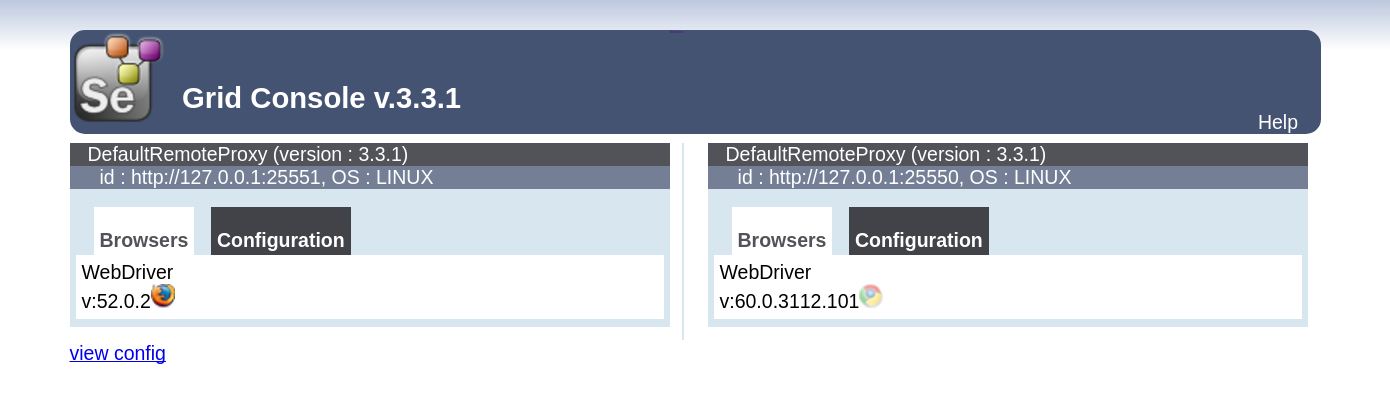
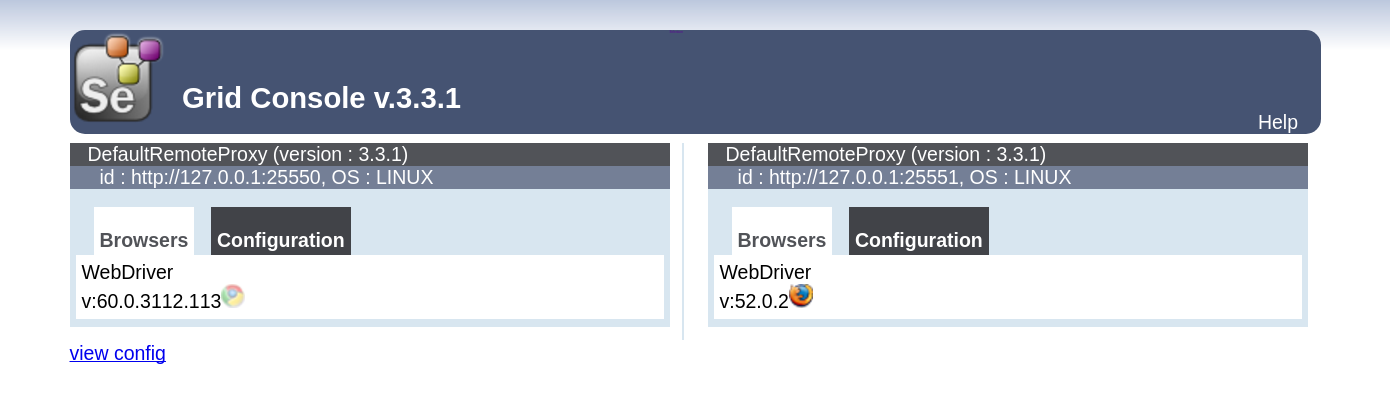
3.3.1-p23: Update image id, digest & png [ci skip]

diff --git a/CHANGELOG.md b/CHANGELOG.md
@@ -7,28 +7,28 @@ Note image ids also change after scm-source.json has being updated which trigger
 ###### To get container versions
     docker exec grid versions
 
-## TBD_DOCKER_TAG
- + **Changes:** https://github.com/elgalu/docker-selenium/compare/TBD_PREV_COMM...master (TBD_DATE)
+## 3.3.1-p23
+ + **Changes:** https://github.com/elgalu/docker-selenium/compare/TBD_PREV_COMM...master (2017-08-28)
     + Upgrade Chrome patch to 60.0.3112.112
  + **Image tag details:**
-    + Selenium version: TBD_SELENIUM_3_VERSION (TBD_SELENIUM_3_REVISION)
-    + Chrome stable:  TBD_CHROME_STABLE
-    + Firefox stable: TBD_FIREFOX_FOR_SEL3
-    + Geckodriver: TBD_GECKO_DRIVER
-    + Chromedriver: TBD_CHROME_DRIVER (TBD_CHROMEDRIVER_COMMIT)
-    + Java: TBD_JAVA_VENDOR Java TBD_JAVA_BUILD
-    + Timezone: TBD_TIME_ZONE
-    + FROM ubuntu:UBUNTU_FLAVOR-UBUNTU_DATE
-    + Python: TBD_PYTHON_VERSION
+    + Selenium version: 3.3.1 (5234b32)
+    + Chrome stable:  60.0.3112.113
+    + Firefox stable: 52.0.2
+    + Geckodriver: 0.15.0
+    + Chromedriver: 2.31.488763 (092de99f48a300323ecf8c2a4e2e7cab51de5ba8)
+    + Java: OpenJDK Java 1.8.0_131-8u131-b11-2ubuntu1.16.04.3-b11
+    + Timezone: Europe/Berlin
+    + FROM ubuntu:xenial-20170802
+    + Python: 3.5.2
     + Tested on kernel dev host: 4.4.0-89-generic x86_64
-    + Tested on kernel CI  host: TBD_HOST_UNAME
+    + Tested on kernel CI  host: 4.4.0-83-generic x86_64
     + Built at dev host with: Docker version 17.05.0-ce, build 89658be
-    + Built at CI  host with: Docker version TBD_DOCKER_VERS, build TBD_DOCKER_BUILD
+    + Built at CI  host with: Docker version 17.05.0, build 89658be
     + Built at dev host with: Docker Compose version 1.14.0, build c7bdf9e
-    + Built at CI  host with: Docker Compose version TBD_DOCKER_COMPOSE_VERS, build TBD_DOCKER_COMPOSE_BUILD
-    + Image size: TBD_IMAGE_SIZE
-    + Digest: TBD_DIGEST
-    + Image ID: TBD_IMAGE_ID
+    + Built at CI  host with: Docker Compose version 1.13.0, build 1719ceb
+    + Image size: 1.36GB
+    + Digest: sha256:93feab5d3fbdda2c42454766be51eef6e652049dbcf6e6af0f4513ddfb9656e5
+    + Image ID: sha256:2af8e25ff3c1e3d1ac17217672a08268a47d4aecd06d745261263fe093f9ee1a
 
 ## 3.3.1-p22
  + **Changes:** https://github.com/elgalu/docker-selenium/compare/c15e824fca396637f6c61...4cee932c06214b21c1329d7 (2017-08-16)
